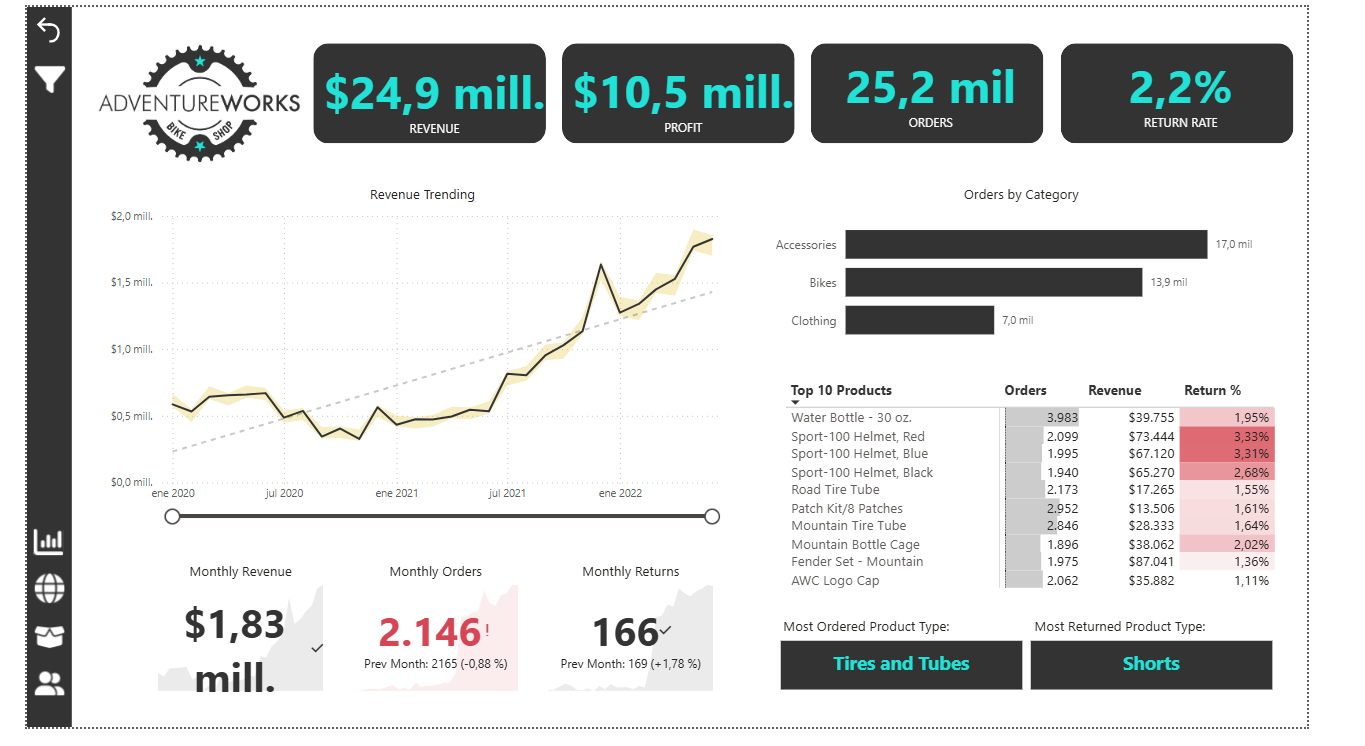
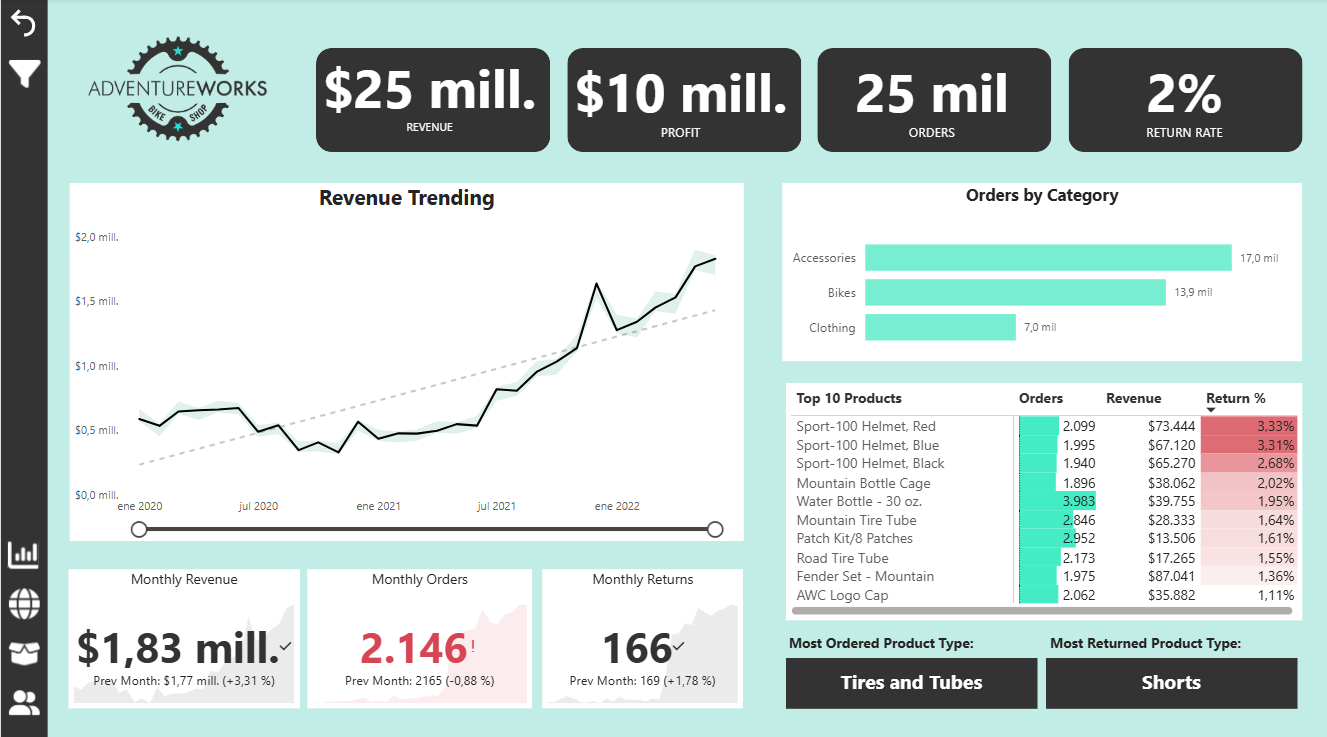
Link AdventureWorks Power BI case study
Link AdventureWorks Power BI case study

diff --git a/index.html b/index.html
@@ -60,7 +60,7 @@
 <p class="project-description">Análisis del rendimiento comercial de AdventureWorks, con seguimiento de ingresos, beneficio, pedidos y devoluciones, además del comportamiento por categoría y producto.</p>
 <div class="tags"><span>Power BI</span><span>DAX</span><span>Data Modelling</span><span>Sales Analytics</span><span>Data Visualization</span></div>
 <!-- Sustituir este elemento por un enlace con la misma clase cuando esté disponible la URL real del proyecto. -->
-<span class="project-cta project-cta--secondary project-cta--disabled" aria-disabled="true">Ver proyecto →</span>
+<a class="project-cta project-cta--secondary" href="https://anaguedan.github.io/adventureworks-sales-performance-analysis/">Ver proyecto →</a>
 </div>
 </article>
 </div>
